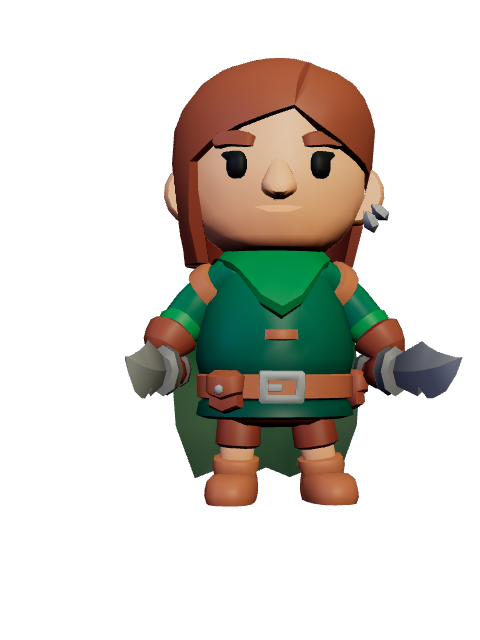
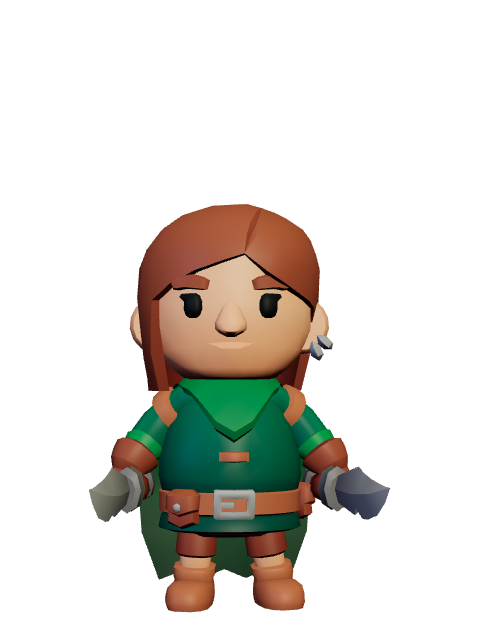
Heroes share one size, and the hero cards line up and fit the first screen
- Heroes keep the model's own scale (they're all one rig) instead of each being squeezed to 2.3
  high with its hat: the wizard's hat now stands above the rest rather than shrinking him.
- Hero cards (/dev/heroes) are all drawn through the same camera, so flipping through them the
  feet and heads stay put; the old framing also measured hidden gear (the rogue's crossbows).
  The 14 pictures in media/heroes are re-drawn.
- The idle screen's line-up shares the screen's width, so all seven heroes fit.

diff --git a/src/TriviaBattle.Server/wwwroot/js/battle3d/portrait.js b/src/TriviaBattle.Server/wwwroot/js/battle3d/portrait.js
@@ -9,6 +9,9 @@
 import * as THREE from 'three';
 import { Actor } from './actor.js';
 
+/** What a hero card shows, in the room's units: from just under the feet to above the wizard's hat. */
+const BODY_FRAME = { bottom: -0.15, top: 3.2 };
+
 /**
  * A canvas of a hero in the station's colour, wearing this face (a URL of a FaceCutout face; null: its own).
  * options: hero ('tank', 'wizard'...), framing ('head': head and shoulders, square; 'body': all of it,
@@ -30,19 +33,19 @@ export async function heroPortrait(faceUrl, color, { hero = 'tank', framing = 'h
     fill.position.set(-6, 2, 4);
     scene.add(fill);
 
-    // Head: framed tight on the face, from its own height, so a brim doesn't shade the eyes. Body: all of it,
-    // from a little below its middle, the way a hero card looks up at its hero.
+    // Head: framed tight on the face, from its own height, so a brim doesn't shade the eyes. Body: every hero
+    // through the same camera (feet on the floor, BODY_FRAME tall, from a little below the middle, the way a
+    // hero card looks up at its hero), so flipping through the cards their feet stay put and a hat is taller.
     actor.root.updateMatrixWorld(true);
     const width = size;
     const height = framing === 'body' ? Math.round((size * 4) / 3) : size;
     const camera = new THREE.PerspectiveCamera(28, width / height, 0.01, 100);
     const tan = Math.tan(THREE.MathUtils.degToRad(14));
     if (framing === 'body') {
-        const box = new THREE.Box3().expandByObject(actor.model, true);
-        const centre = box.getCenter(new THREE.Vector3());
-        const distance = (box.getSize(new THREE.Vector3()).y * 0.58) / tan;
-        camera.position.set(centre.x, centre.y * 0.8, centre.z + distance);
-        camera.lookAt(centre);
+        const middle = BODY_FRAME.top / 2 + BODY_FRAME.bottom / 2;
+        const distance = ((BODY_FRAME.top - BODY_FRAME.bottom) / 2) / tan;
+        camera.position.set(0, middle * 0.8, distance);
+        camera.lookAt(0, middle, 0);
     } else {
         const spec = actor.spec.face;
         const eyes = new THREE.Vector3(0, spec.eyes - 0.03, 0.4).applyMatrix4(actor.model.matrixWorld);

diff --git a/src/TriviaBattle.Server/wwwroot/js/battle3d/models.js b/src/TriviaBattle.Server/wwwroot/js/battle3d/models.js
@@ -11,6 +11,7 @@
 //   death   being killed (optional: without it the model just bursts)
 //   run     heroes: running on to the next room (the walk; without it they just stand)
 // height  how tall it stands in the room (the knight is about 2.3; a back wall is 4)
+// scale   optional: a fixed scale instead (the heroes: one rig, one size, so a hat makes one taller)
 // width   its body's width, in the room's units (optional: measured from the model otherwise). Give it when the idle
 //         pose is much wider than the body (arms or a weapon held out): the width frames the camera on a question
 //         and sets where fighters stop to strike, so a wide pose pulls the camera back and keeps the knight away.
@@ -29,7 +30,10 @@
 // A new model: put its .glb in media/models/characters (credit it in CREDITS.md), give its key an entry here
 // (file, which clips are its attacks, which gear shows, which part is dyed the station's colour, where a
 // face goes), then save its pictures with /dev/heroes. A hero class needs its key in Core's Heroes.All too.
-const ADVENTURER = { height: 2.3, idle: 'Idle', hurt: 'Hit_A', block: 'Block_Hit', death: 'Death_A', cheer: 'Cheer', run: 'Running_A' };
+// The adventurers are all built on one rig, the same size bare-headed (about 2.2 to 2.3 high), so they keep the
+// model's own scale (scale: 1) rather than each being squeezed to a height: the wizard's hat stands above the
+// rest instead of shrinking him to fit it. height is still their nominal height, for the cameras and effects.
+const ADVENTURER = { height: 2.3, scale: 1, idle: 'Idle', hurt: 'Hit_A', block: 'Block_Hit', death: 'Death_A', cheer: 'Cheer', run: 'Running_A' };
 
 /**
  * Where a hero photo goes on an adventurer's head: its own face, inside the helmet, hat or hood (about 1.40

diff --git a/src/TriviaBattle.Server/wwwroot/css/arcade-lobby.css b/src/TriviaBattle.Server/wwwroot/css/arcade-lobby.css
@@ -11,8 +11,9 @@
 
 /* ---------- Idle: press any button ---------- */
 .lb-logo { font-size: 12vmin; }
-.lb-lineup { display: flex; justify-content: center; }
-.lb-lineup img { width: 19vmin; margin: 0 -1.5vmin; animation: lb-bob 1.6s ease-in-out calc(var(--i) * -0.3s) infinite; }
+/* Every hero, shoulder to shoulder (a card is wider than its hero): they share the screen's width, so all seven fit. */
+.lb-lineup { display: flex; justify-content: center; width: 100%; }
+.lb-lineup img { flex: 0 1 21vmin; min-width: 0; height: auto; margin: 0 -2.6vmin; animation: lb-bob 1.6s ease-in-out calc(var(--i) * -0.3s) infinite; }
 @keyframes lb-bob { 50% { transform: translateY(-1.5vmin); } }
 .lb-press {
     font-family: var(--font-display); font-size: 7vmin; color: var(--accent);

diff --git a/src/TriviaBattle.Server/wwwroot/js/battle3d/actor.js b/src/TriviaBattle.Server/wwwroot/js/battle3d/actor.js
@@ -59,7 +59,9 @@ export class Actor {
         this.pose({ clip: spec.idle, time: 0 }, model);
         const box = visibleBox(model);
         const size = box.getSize(new THREE.Vector3());
-        const scale = spec.height / Math.max(size.y, 0.001);
+        // A fixed scale (the heroes, all on one rig) keeps them one size, a hat adding to it; otherwise it's
+        // sized to its height, all of it.
+        const scale = spec.scale ?? spec.height / Math.max(size.y, 0.001);
         model.scale.setScalar(scale);
         const centre = box.getCenter(new THREE.Vector3());
         const turn = facing + (spec.turn || 0);
